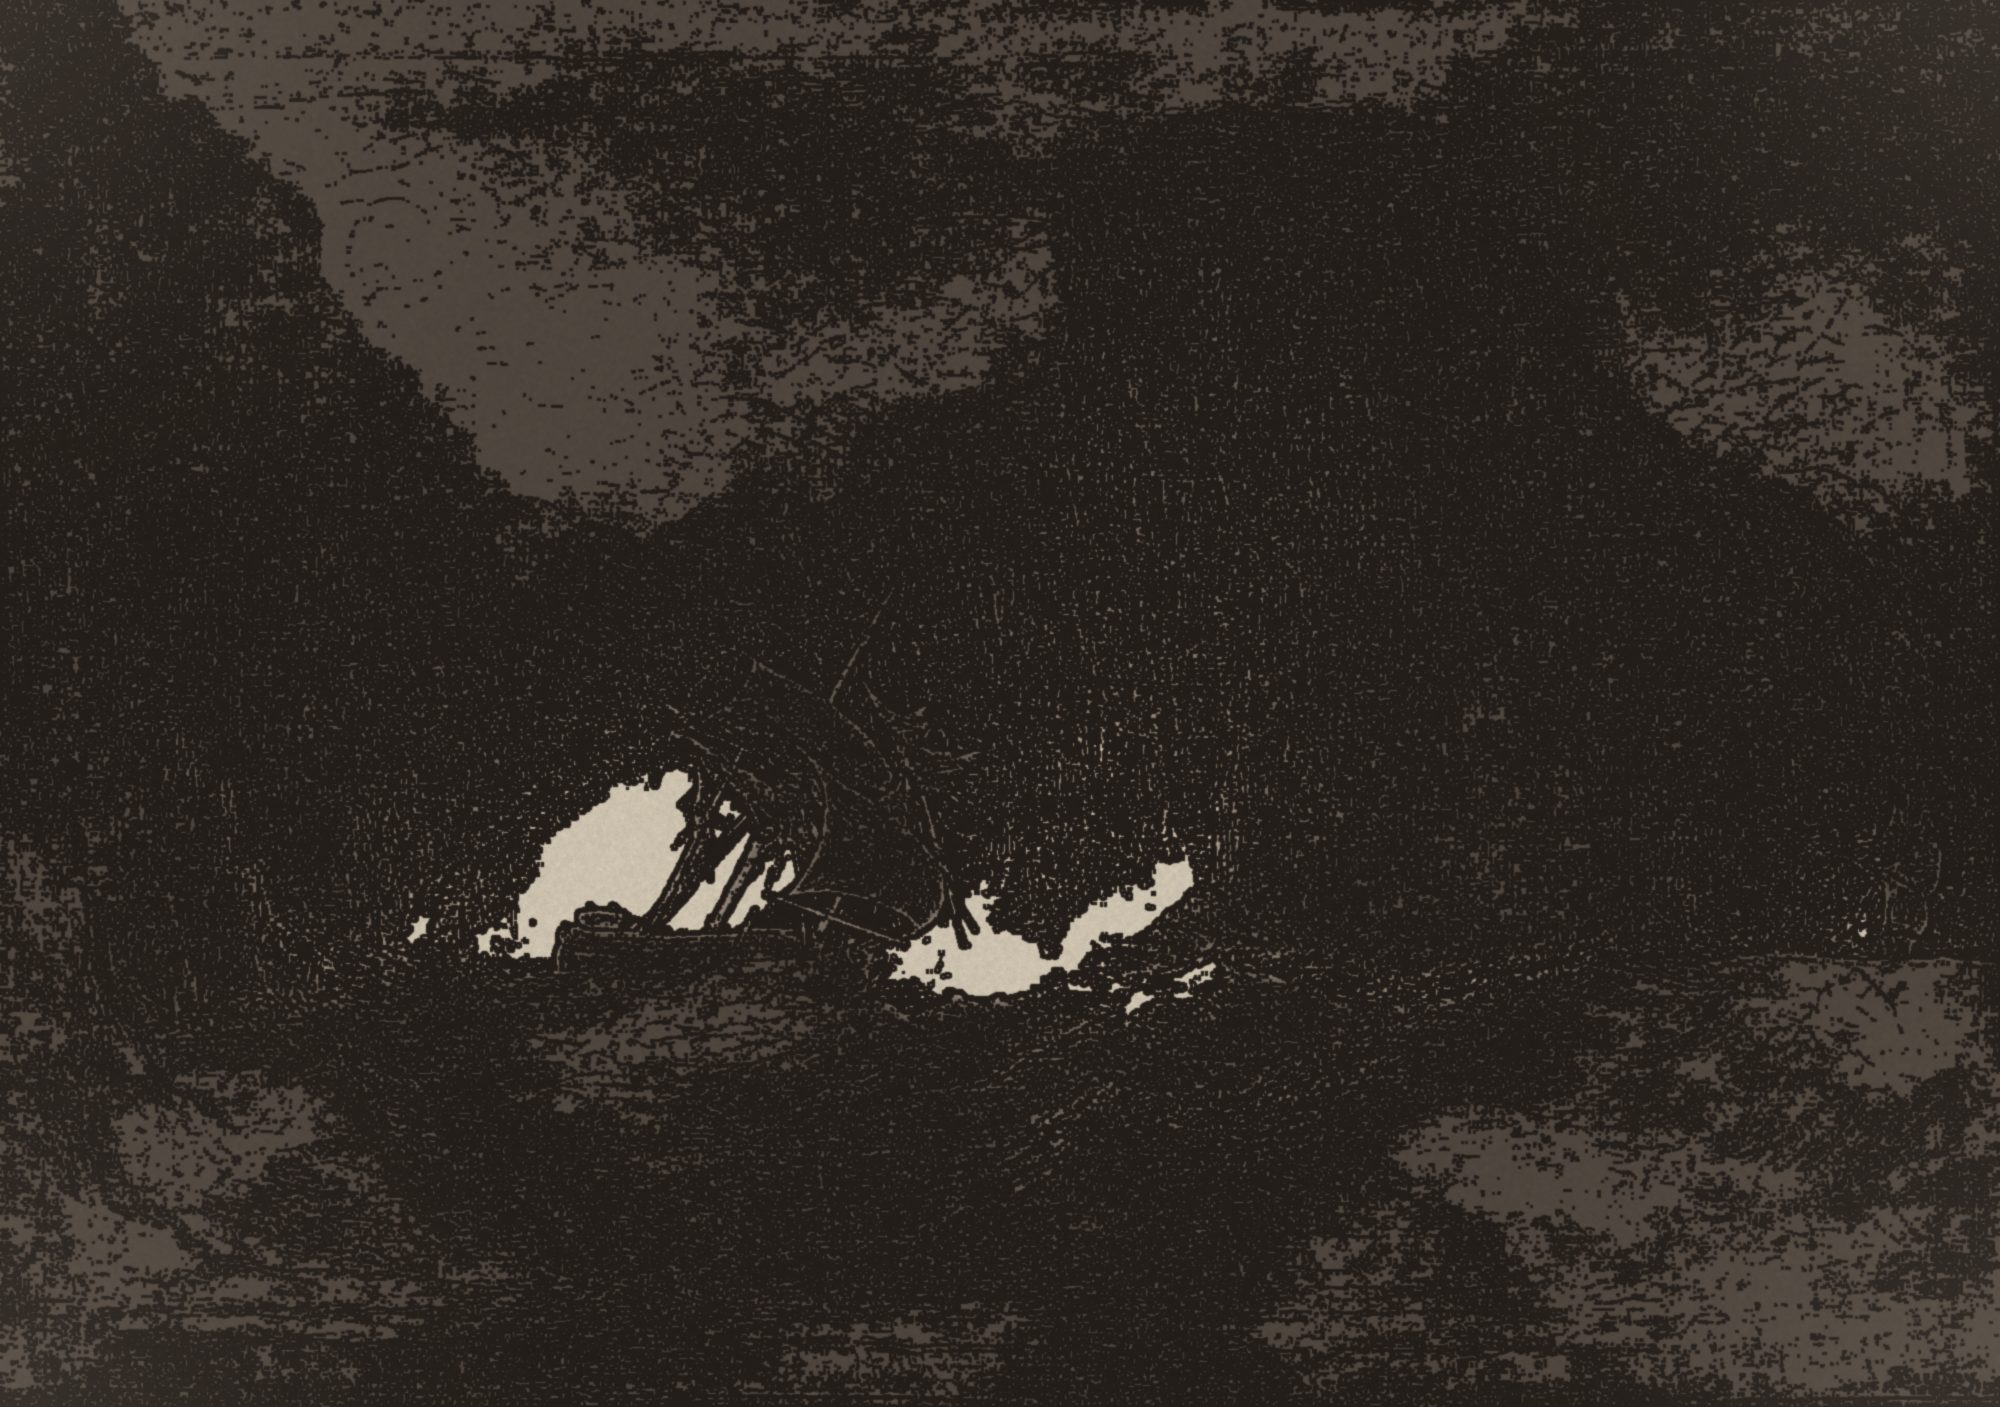
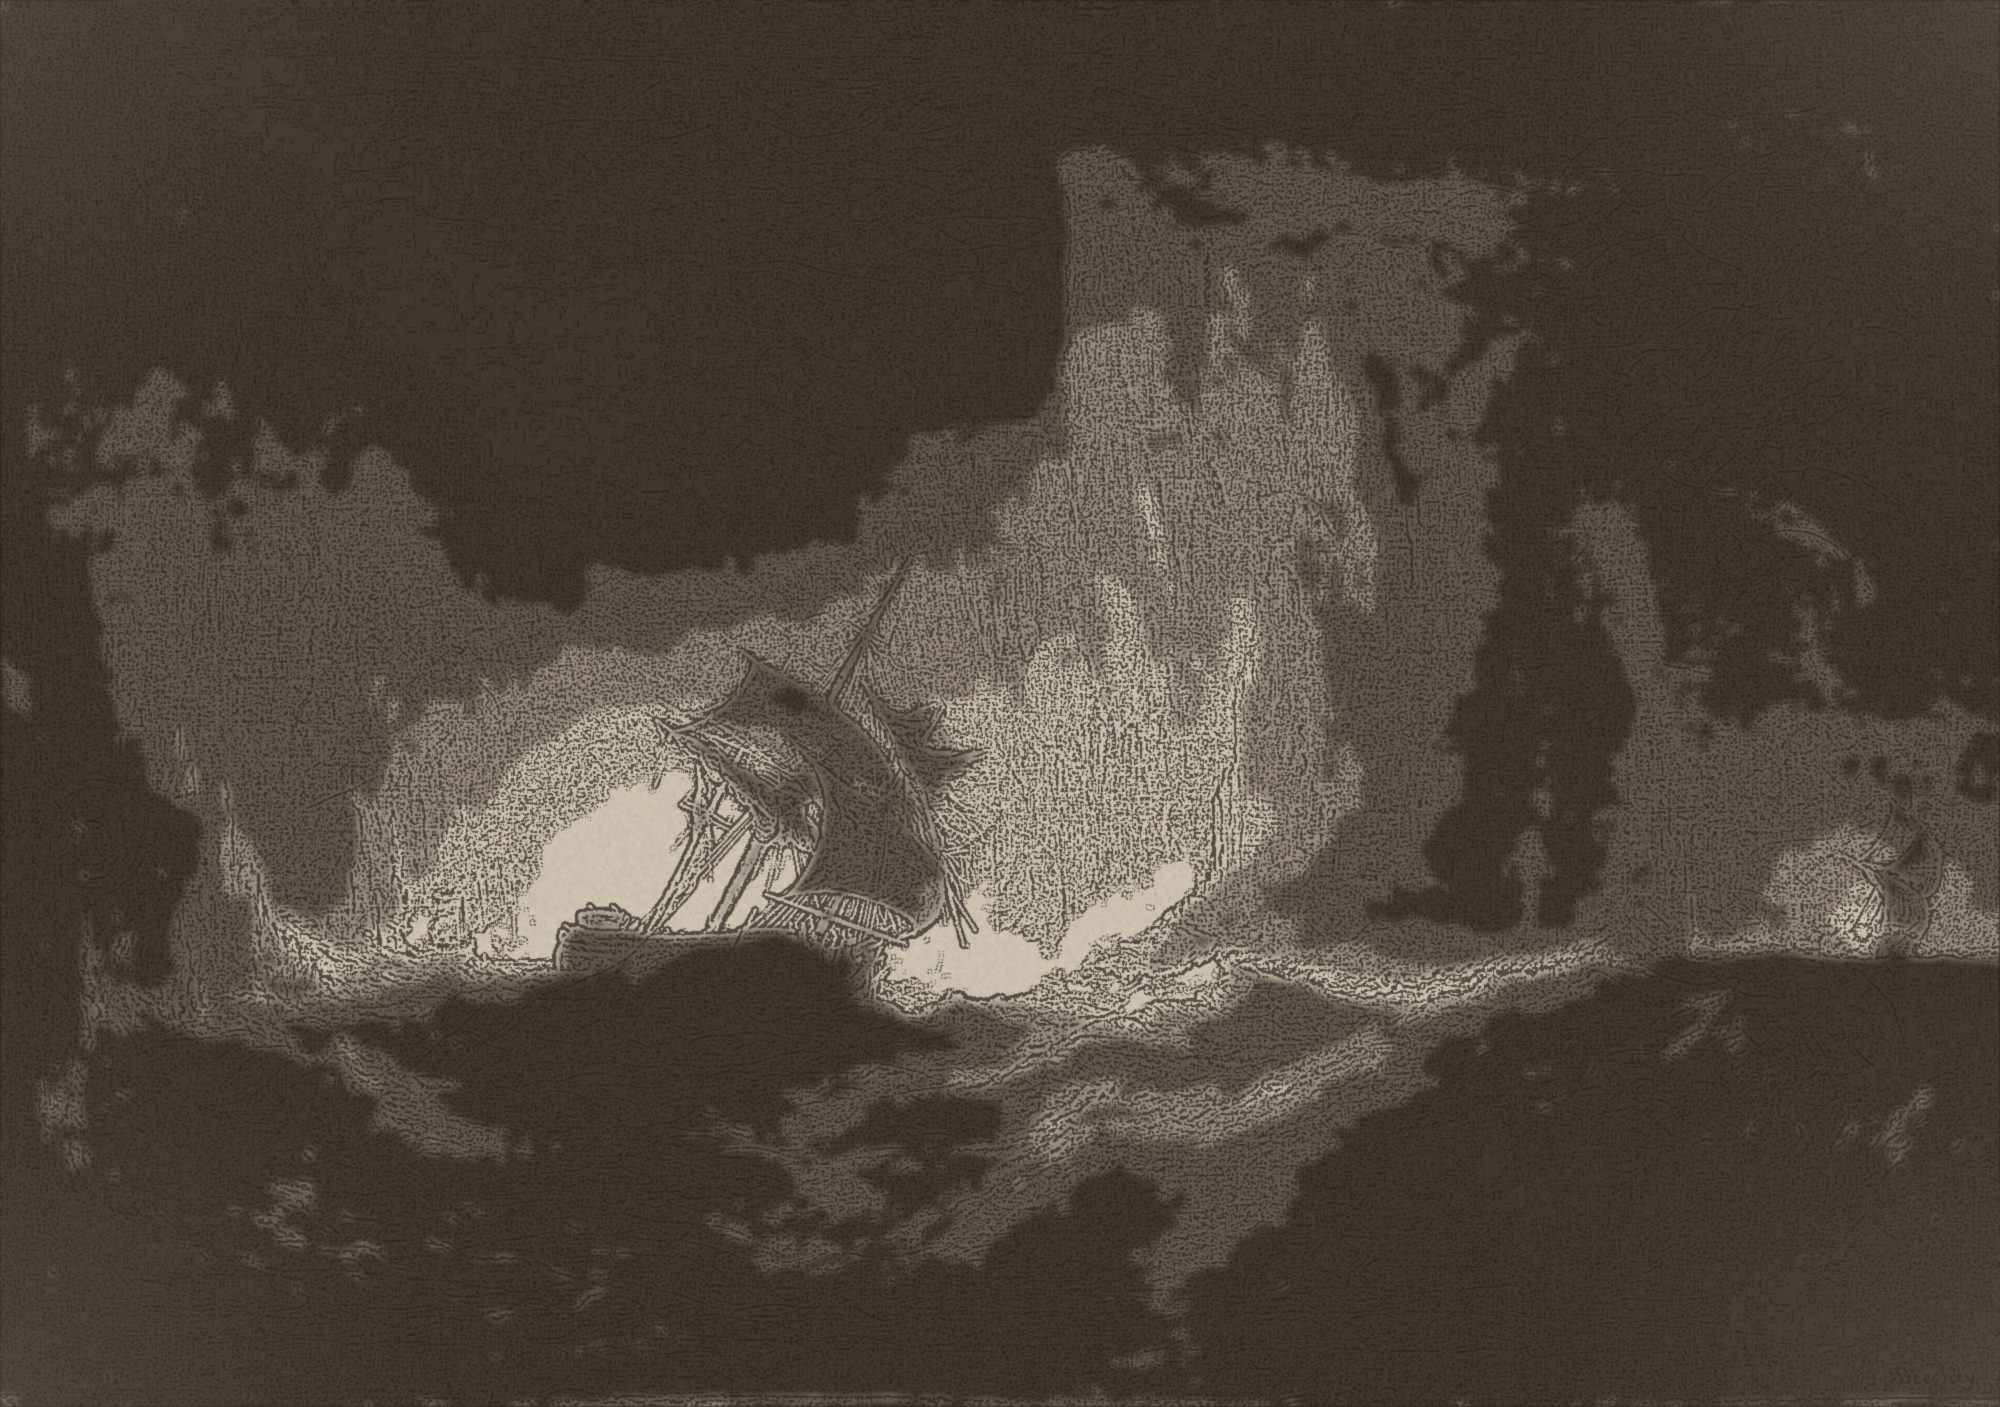
수묵 변환 농담 보정

diff --git a/scripts/ink_wash.py b/scripts/ink_wash.py
@@ -22,19 +22,24 @@ W, H = im.size
 
 # 1) 명도 — 먹 농담의 바탕. 하늘처럼 밝은 곳은 거의 비운다
 g = ImageOps.grayscale(im)
-g = ImageOps.autocontrast(g, cutoff=1)
-g = ImageEnhance.Contrast(g).enhance(1.25)
-tone = g.filter(ImageFilter.GaussianBlur(2.2))
-tone = ImageOps.posterize(tone, 3)              # 4단 농담
-tone = tone.filter(ImageFilter.GaussianBlur(3))  # 번짐
-tone = tone.point(lambda v: 255 if v > 200 else int(80 + v * 0.7))  # 밝은 곳은 여백으로
+g = ImageOps.autocontrast(g, cutoff=2)
+# 먹은 아껴 쓴다 — 중간 밝기는 옅은 담묵, 밝은 곳은 종이 여백. 감마로 그림자를 들어 올린 뒤 4단으로
+lift = g.point(lambda v: int(255 * (v / 255) ** 0.6))
+tone = lift.filter(ImageFilter.GaussianBlur(2.0))
+def level(v):
+    if v < 60: return 52      # 농묵
+    if v < 115: return 118    # 중묵
+    if v < 175: return 190    # 담묵
+    return 255                # 여백
+tone = tone.point(level)
+tone = tone.filter(ImageFilter.GaussianBlur(2.6))  # 번짐
 
 # 2) 붓선 — 윤곽을 굵고 거칠게
 edges = g.filter(ImageFilter.GaussianBlur(1)).filter(ImageFilter.FIND_EDGES)
 edges = ImageOps.autocontrast(edges, cutoff=2)
-edges = edges.point(lambda v: 255 if v > 38 else 0)
-edges = edges.filter(ImageFilter.MaxFilter(3)).filter(ImageFilter.GaussianBlur(0.8))
-ink_lines = ImageOps.invert(edges)  # 선=검정
+edges = edges.point(lambda v: 255 if v > 46 else 0)
+edges = edges.filter(ImageFilter.GaussianBlur(0.7))
+ink_lines = ImageOps.invert(edges).point(lambda v: 90 + int(v * 0.65))  # 선=진먹(완전 검정은 피함)
 
 # 3) 합성 — 농담 × 선
 ink = ImageChops.multiply(tone, ink_lines)
